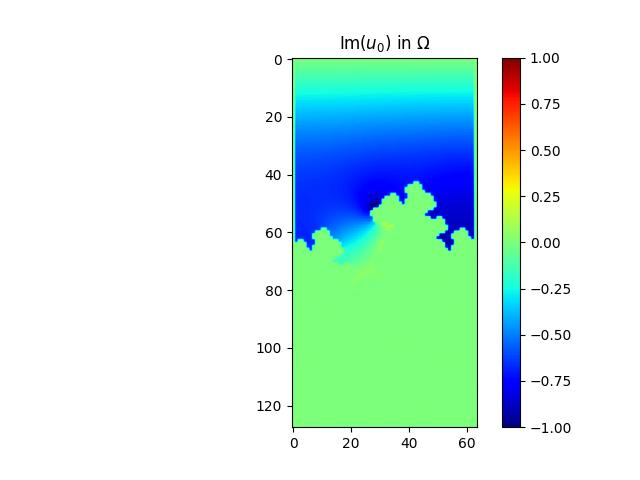
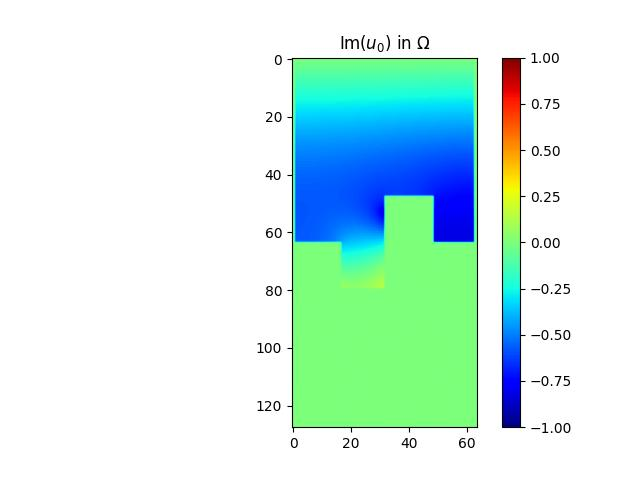
modif projection finale

Changed region(s): [[0.4375, 0.1875, 0.75, 0.625]]

diff --git a/demo_control_polycopie2023.py b/demo_control_polycopie2023.py
@@ -120,10 +120,14 @@ def projection_finale(chi, V_obj):
     table= sorted(table, reverse=True)
     chi1=numpy.zeros((M,N))
     nbre_de_uns = int(V_obj*N)
-    for i in range(nbre_de_uns): 
+    i = 0
+    while (i < nbre_de_uns): 
+        
         value, node_id = table[i]
         node_i, node_j= node_id 
-        chi1[node_i,node_j] = 1 
+        if domain_omega[node_i,node_j] == _env.NODE_ROBIN : 
+            chi1[node_i,node_j] = 1 
+            i+=1
 
     return chi1
 
@@ -181,11 +185,7 @@ def optimization_procedure(domain_omega, spacestep, omega, f, f_dir, f_neu, f_ro
         for i in range(M):
             for j in range(N):
                 # if processing.is_on_robin_boundary([domain_omega[i,j]]):
-<<<<<<< HEAD
-                grad[i,j] +=  numpy.real(Alpha*u[i,j]*(p[i,j]))
-=======
                 grad[i,j] +=  numpy.real(Alpha*u[i,j]*p[i,j])
->>>>>>> fractal_code_source
         #print(numpy.linalg.norm(grad))
 
         #solution helmotz problem 
@@ -213,7 +213,7 @@ def optimization_procedure(domain_omega, spacestep, omega, f, f_dir, f_neu, f_ro
     print('end. computing solution of Helmholtz problem, i.e., u')
     alpha_rob = Alpha*chi
     u = processing.solve_helmholtz(domain_omega, spacestep, omega, f, f_dir, f_neu, f_rob, beta_pde, alpha_pde, alpha_dir, beta_neu, beta_rob, alpha_rob)
-    # chi = projection_finale(chi,V_obj)
+    chi = projection_finale(chi,V_obj)
     return chi, energy, u, grad
 
 
@@ -227,11 +227,7 @@ if __name__ == '__main__':
     # -- set parameters of the geometry
     N = 64 # number of points along x-axis
     M = 2 * N  # number of points along y-axis
-<<<<<<< HEAD
-    level = 3 # level of the fractal
-=======
     level = 1 # level of the fractal
->>>>>>> fractal_code_source
     spacestep = 1.0 / N  # mesh size
     
     # Material = [phi, gamma_p, sigma, rho_0, alpha_h, c_0]
